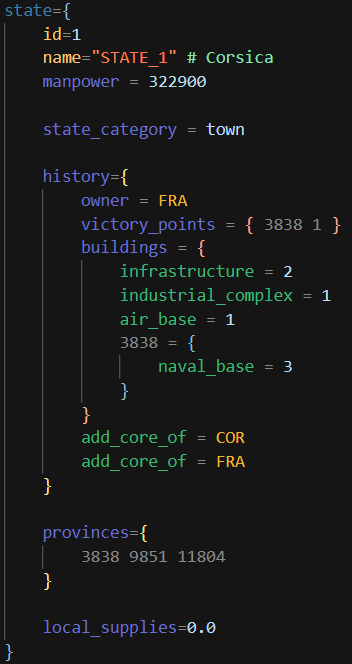
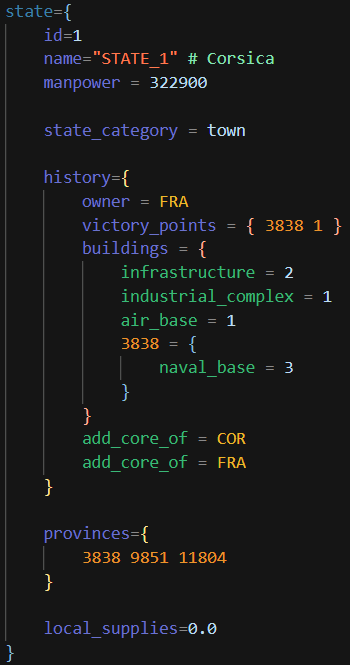
1.0.2
- More example images
- Coloring for State/Province IDs
- Additional syntax highlighting for missing triggers, scopes, and effects
- Reorganized some other syntax stuff again
- Renamed 'redtheme's file to be consistant with Dark and Light theme file names, even though it will probably be deleted
- Added some more coloring to Dark theme that was missing

diff --git a/README.md b/README.md
@@ -13,11 +13,13 @@ The main and currently only function of this extension is highlighting the vario
 ![State History Highlighting](images/state-history-example.png)
 
 ### Focus Tree Example
-\!\[Focus Tree Highlighting\]\(images/focus-tree-example.png\)
+![Focus Tree Highlighting](images/focus-tree-example.png)
 
 > Sidenote: Certain country tags, such as Norway \(NOR\), take the color for operators as those have priority over tags.
 
 ## Release Notes
+
+<sup>[Full changelog](https://github.com/STupidLord/stupidlord.hoi4-syntax/blob/master/CHANGELOG.md)</sup>
 
 ### 1.0.0
 
@@ -26,6 +28,10 @@ Initial release of **STupidLord's Hearts of Iron 4 Syntax Highlighting**
 ### 1.0.1
 
 Basic syntax and coloring fixes, along with **[Rainbow CSV](https://marketplace.visualstudio.com/items?itemName=mechatroner.rainbow-csv)** compatibility
+
+### 1.0.2
+
+Expanded syntax highlighting again, as well as fixed some missing coloring in Dark theme
 
 ## Credits
 

diff --git a/CHANGELOG.md b/CHANGELOG.md
@@ -1,3 +1,9 @@
+## [Major.Minor.Patch] - DD/MM/YY
+
+## [Unreleased]
+
+- Light theme
+
 ## [1.0.0] - 17/08/24
 
 - Initial release
@@ -9,3 +15,12 @@
 - Optimized country tag syntax matching
 - Added event ID syntax coloring
 - Added Rainbow CSV compatibility
+
+## [1.0.2] - 21/08/24
+
+- More example images
+- Coloring for State/Province IDs
+- Additional syntax highlighting for missing triggers, scopes, and effects
+- Reorganized some other syntax stuff again
+- Renamed 'redtheme's file to be consistant with Dark and Light theme file names, even though it will probably be deleted
+- Added some more coloring to Dark theme that was missing
